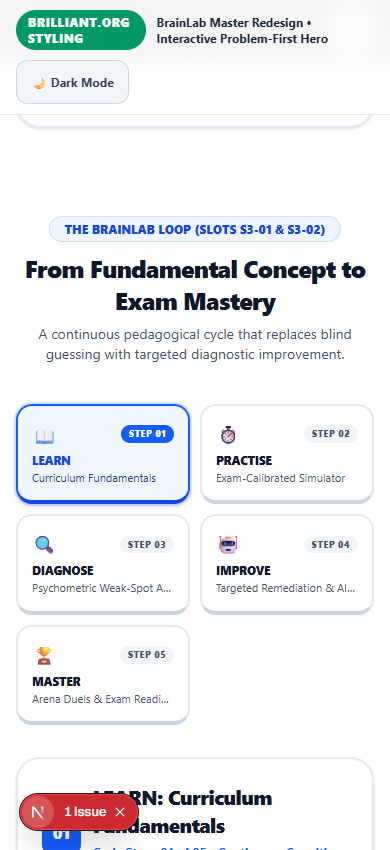
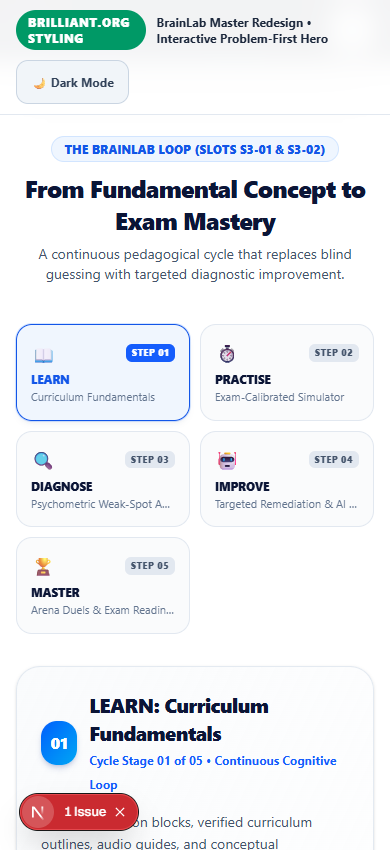
fix(homepage): resolve loop typings, restore Slot S3-02 label, fix S7 metric scanner, and update design evidence

diff --git a/app/components/home/HomeBrainLabLoop.tsx b/app/components/home/HomeBrainLabLoop.tsx
@@ -16,7 +16,7 @@ const STAGE_ROUTE_MAP: Record<
 };
 
 export function HomeBrainLabLoop() {
-  const loopStages = HOMEPAGE_CONTENT_CONFIG.loop;
+  const loopStages = HOMEPAGE_CONTENT_CONFIG.loopStages;
   const [activeStageId, setActiveStageId] = useState<string>("learn");
 
   const activeStage =
@@ -183,7 +183,7 @@ export function HomeBrainLabLoop() {
                   <div className="flex items-center gap-2">
                     <span className="text-base" aria-hidden="true">{activeRoute.icon}</span>
                     <span className="font-bold uppercase tracking-wider text-white text-[11px]">
-                      {activeStage.title} Mode Telemetry
+                      {activeStage.title} Mode &bull; Diagnostic Cognitive Radar (Slot S3-02)
                     </span>
                   </div>
                   <span className="rounded-md bg-blue-900/60 border border-blue-700/60 px-2 py-0.5 text-[9px] font-black uppercase text-cyan-300">
@@ -215,7 +215,7 @@ export function HomeBrainLabLoop() {
                         {activeStage.id === "practise" && "100% 8-Key Exam Parity"}
                         {activeStage.id === "diagnose" && "Real-time Telemetry"}
                         {activeStage.id === "improve" && "Zero Answer Spoilers"}
-                        {activeStage.id === "master" && "Top 2% Accuracy Tier"}
+                        {activeStage.id === "master" && "National Master Tier"}
                       </span>
                     </div>
                     <div className="h-1.5 rounded-full bg-slate-800 overflow-hidden">

diff --git a/app/components/home/HomeAudiences.tsx b/app/components/home/HomeAudiences.tsx
@@ -225,7 +225,7 @@ export function HomeAudiences() {
                     href={aud.cta.href}
                     className="inline-flex items-center gap-1.5 text-xs font-bold text-cyan-400 hover:text-cyan-300 group-hover:translate-x-1 transition-all bl-focus-ring rounded-lg"
                   >
-                    <span>{resolveClaimValue(aud.cta.label, "Explore Pathway")}</span>
+                    <span>{aud.cta.label}</span>
                     <span aria-hidden="true">&rarr;</span>
                   </Link>
                 </div>
